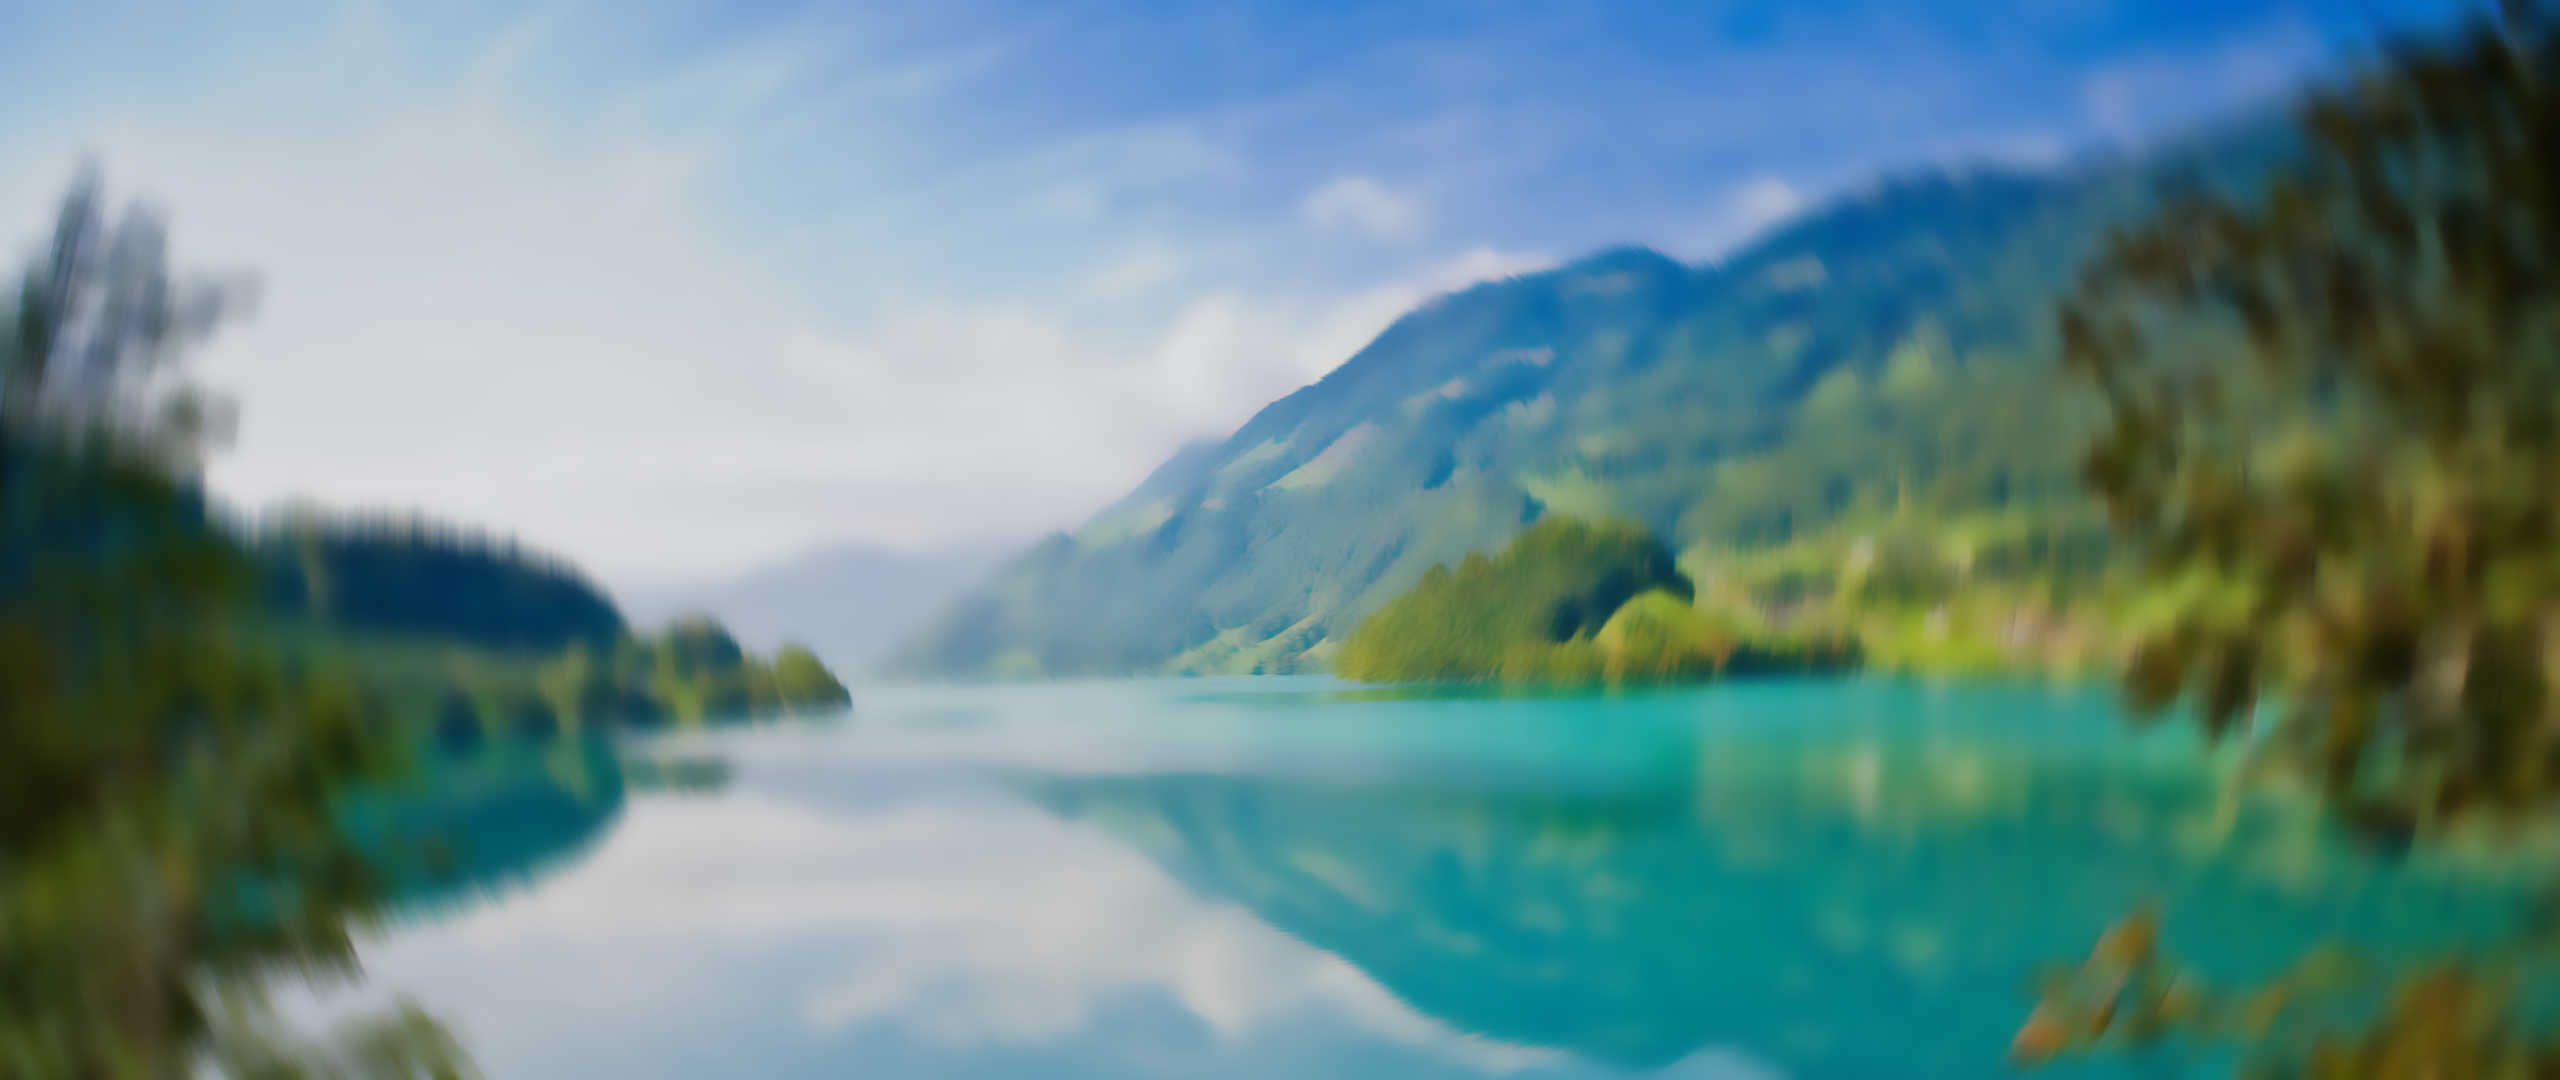
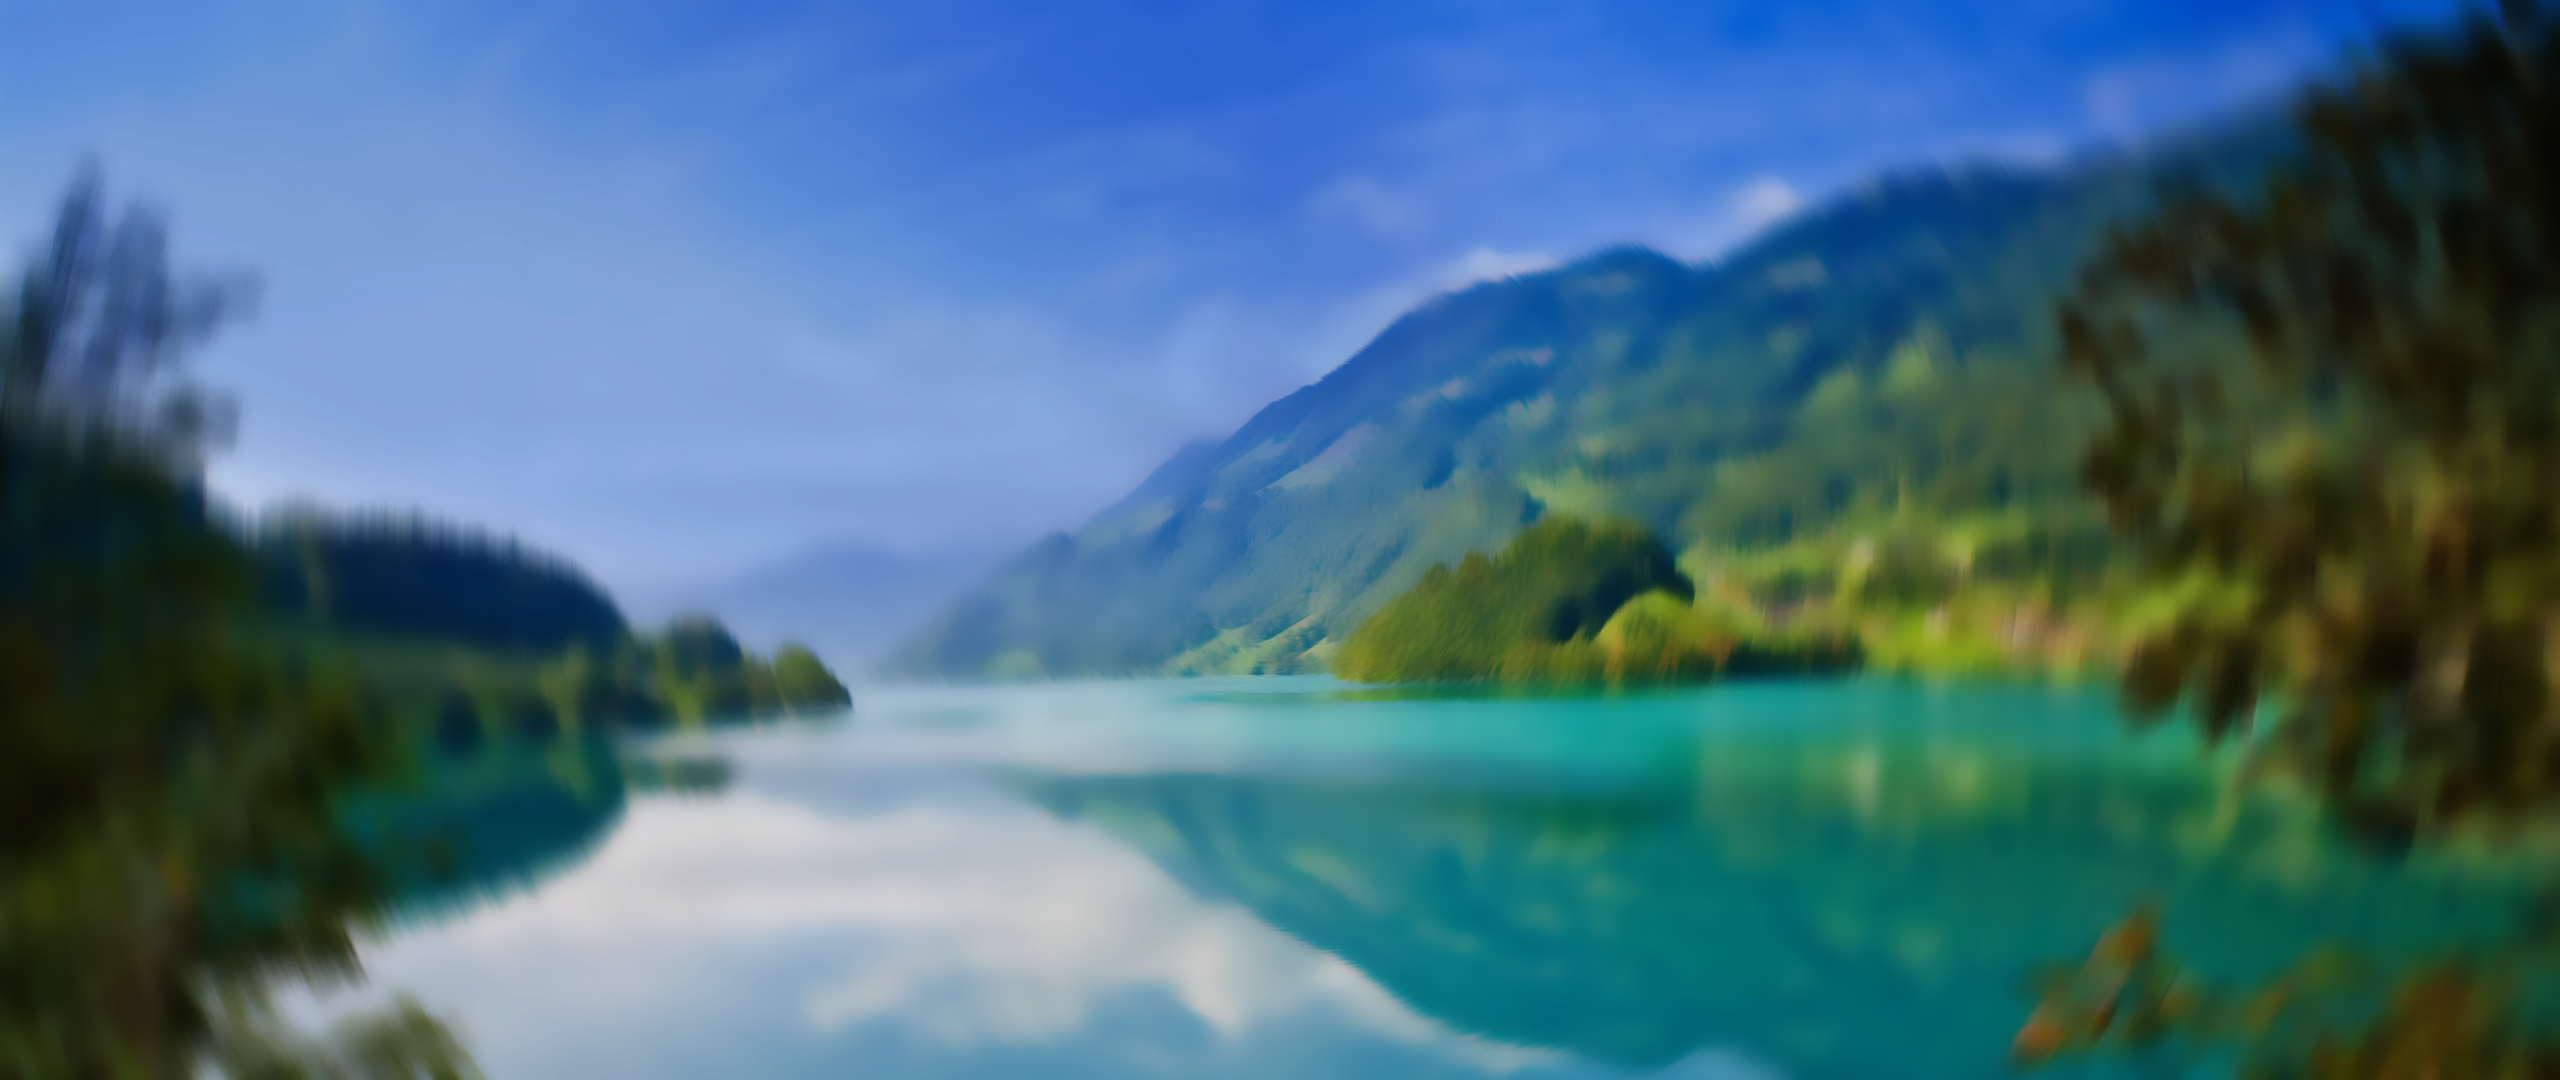
Fixed UI issues, made it easier to read

diff --git a/team_worksheet/app/assets/stylesheets/team.scss b/team_worksheet/app/assets/stylesheets/team.scss
@@ -11,7 +11,11 @@
 	text-color: blue;
 }
 .navbar-brand{
-	text-color: red;
+	text-color: white;
+}
+
+#russell-brand{
+	font-size: 14px;
 }
 
 .navbar-fixed-top {
@@ -63,8 +67,9 @@
 }
 
 .banner {
-    background: url('blur.png') center center no-repeat;
+    background: #ccefff url('blur.png') center center no-repeat;
     background-size: cover;
+		background-attachment: fixed;
 		min-height: 100%;
  		min-width: 1024px;
 
@@ -73,10 +78,51 @@
  		height: auto;
 
  /* Set up positioning */
- 	padding-top: 100px;
+ 		padding-top: 100px;
  		position: fixed;
  		top: 0;
  		left: 0;
+}
+
+.profileBanner {
+    background: #99dfff url('blur.png') center center no-repeat;
+    background-size: cover;
+		background-attachment: fixed;
+		min-height: 100%;
+ 		min-width: 1024px;
+
+ /* Set up proportionate scaling */
+ 		width: 100%;
+ 		height: auto;
+
+ /* Set up positioning */
+ 		padding-top: 100px;
+ 		position: fixed;
+ 		top: 0;
+ 		left: 0;
+}
+
+.mainBanner {
+    background: #ccefff url('blur2.png') center center no-repeat;
+    background-size: cover;
+		background-attachment: fixed;
+		min-height: 100%;
+		overflow-x: hidden;
+
+ /* Set up proportionate scaling */
+ 		width: 100%;
+ 		height: auto;
+
+ /* Set up positioning */
+ 		position: absolute;
+		padding-top: 100px;
+ 		top: 0;
+ 		left: 0;
+}
+
+
+.titlePart {
+		text-align: center;
 }
 
 .Sign_Form{

diff --git a/team_worksheet/app/controllers/users_controller.rb b/team_worksheet/app/controllers/users_controller.rb
@@ -21,10 +21,10 @@ class UsersController < ApplicationController
       @user.save
       if $proper == true
         puts "***********************************************"
-        redirect_to(:controller => 'sessions', :action => 'profile')
+        redirect_to(:controller => 'sessions', :action => 'home')
       else
         puts "++++++++++++++++++++++++++++++++++++++++++++++++"
-        redirect_to(:controller => 'sessions', :action => 'home')
+        redirect_to(:controller => 'sessions', :action => 'profile')
       end
 
   end
